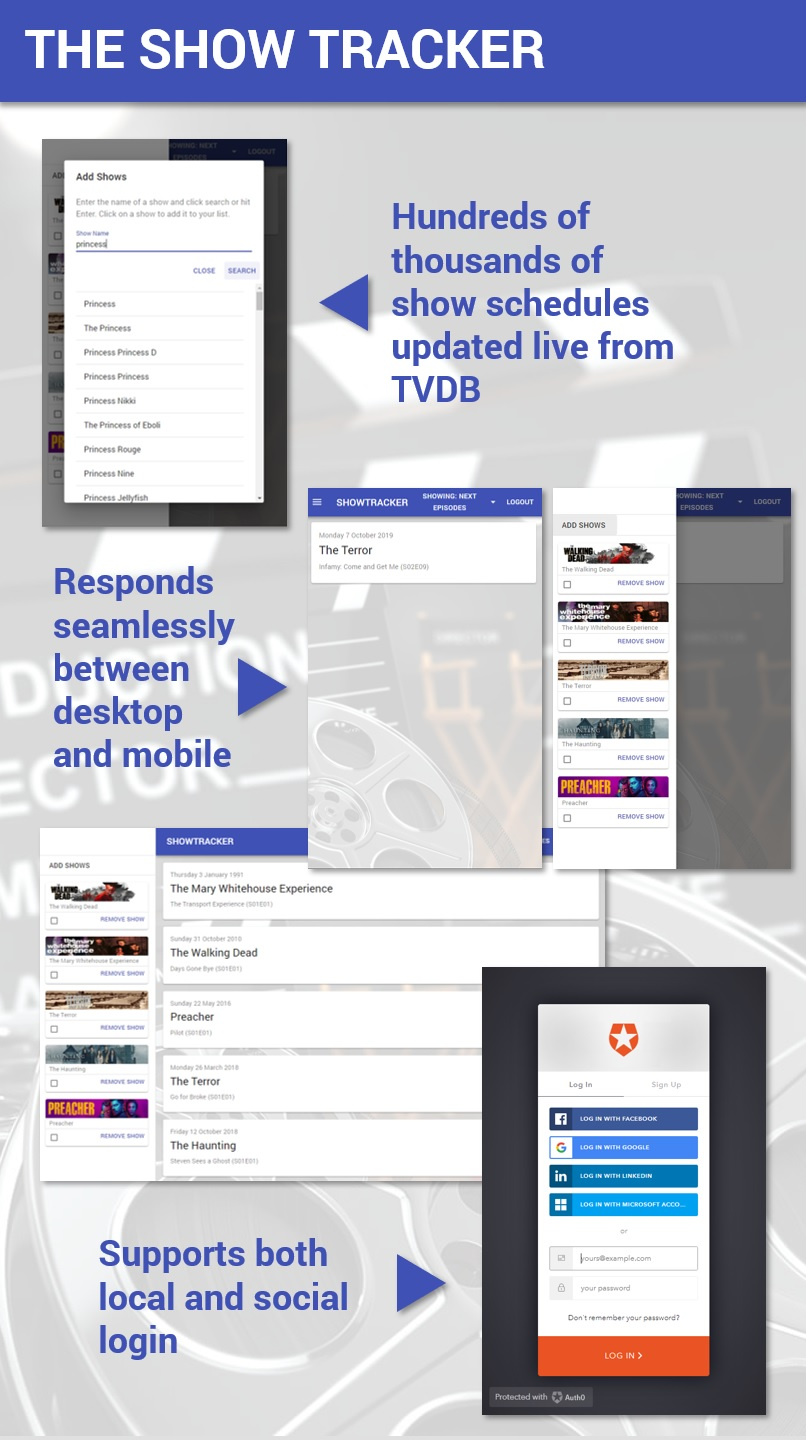
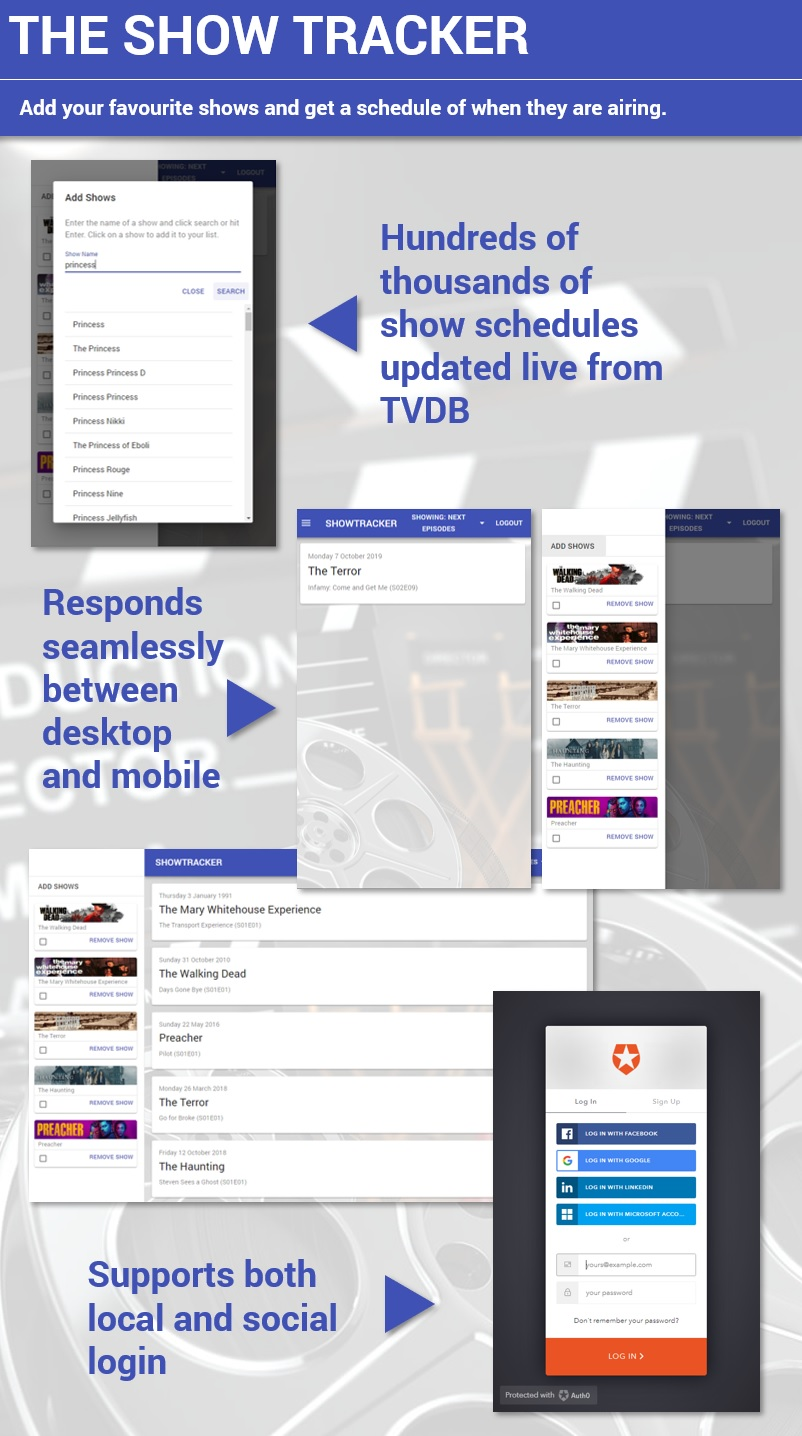
adding feature summary

diff --git a/README.md b/README.md
@@ -1,4 +1,6 @@
-This project is split into two seperate components - a Node Server (/server), and a React client (/client).  The server wraps TVDB calls for show information, and so requires an API key specified in your environment variables.
+THE SHOWTRACKER let's you add your favourite shows and then see when they are airing, updating live from TVDB.
+
+This project is split into two seperate components - a Node Server (/server), and a React client (/client).  The server wraps TVDB calls for show information, and so requires an API key specified in your environment variables.
 
 **you must run two seperate instances each for the server and client**
 
